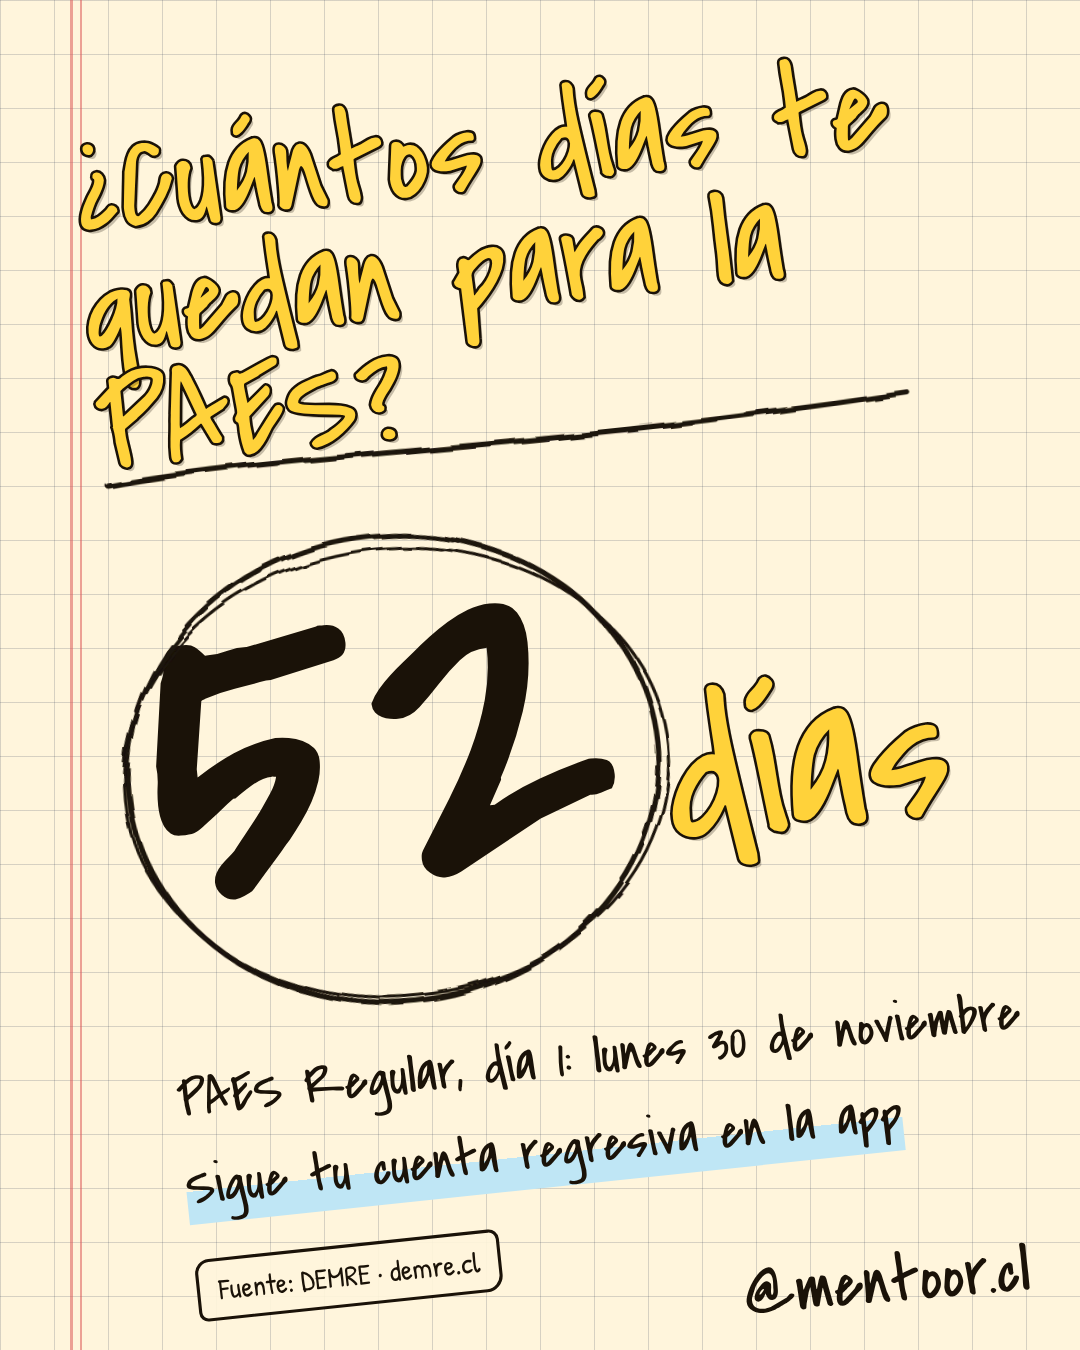
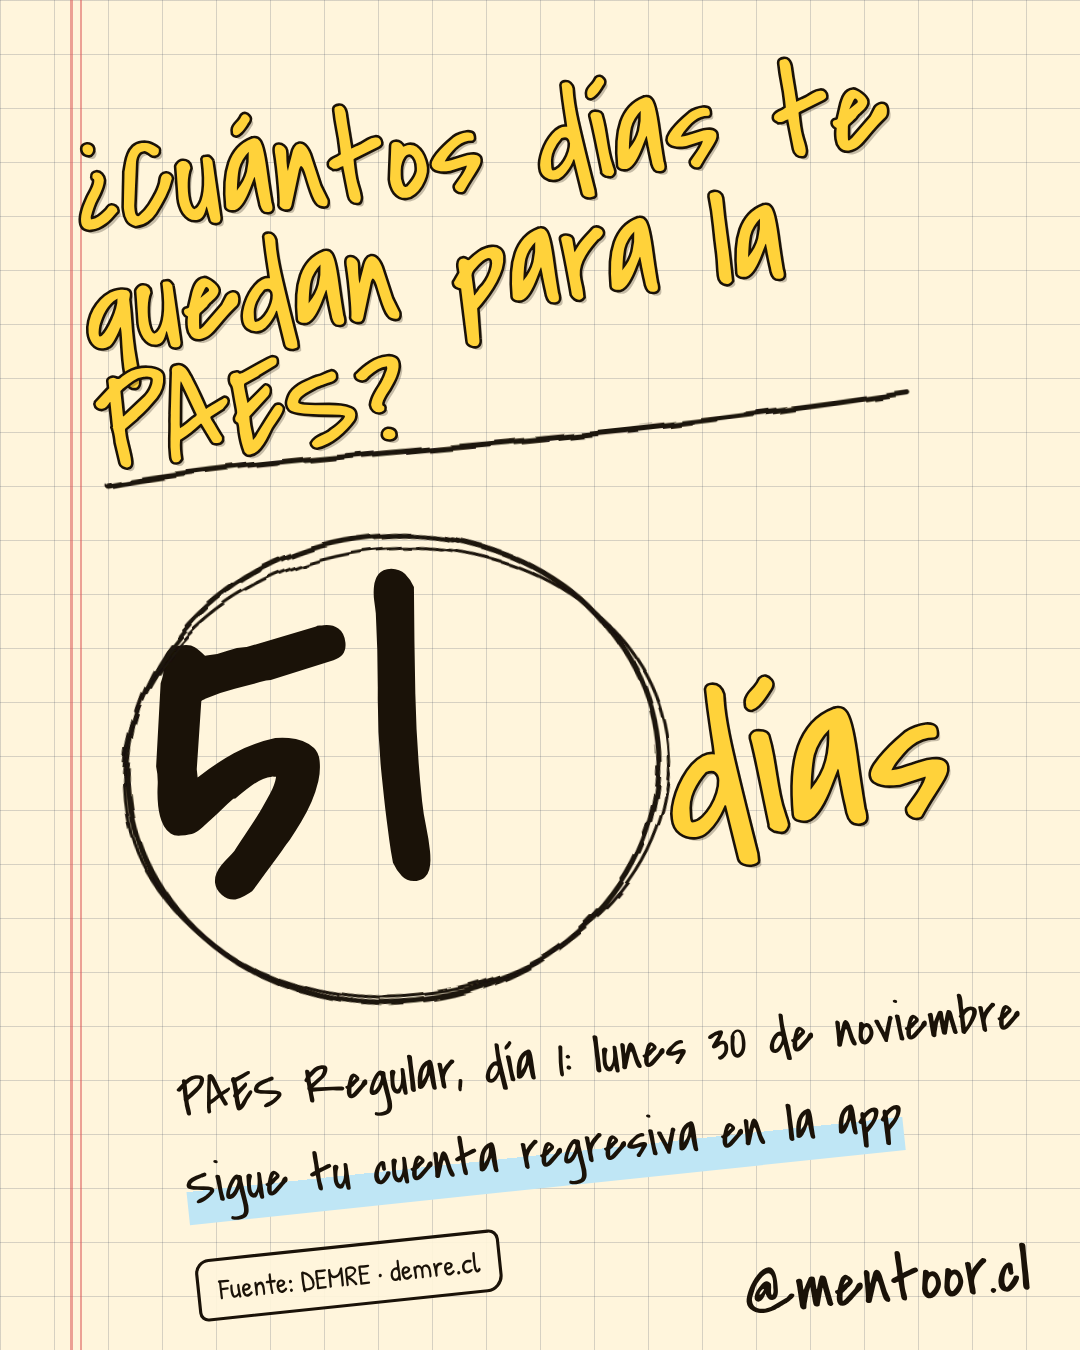
Corrige cuenta regresiva a 51 dias (coincide con la app)
Claude-Session: https://claude.ai/code/session_01DWvZMKLD7izJVkJ76mCF3F

Changed region(s): [[0.3361, 0.4044, 0.5806, 0.6533]]

diff --git a/posts/2026-10-09-cuenta-regresiva-v2/src/post.html b/posts/2026-10-09-cuenta-regresiva-v2/src/post.html
@@ -3,7 +3,7 @@
 <div class="abs" style="left:0;top:0;width:1080px;height:1350px;transform:rotate(-6deg) scale(1.04);transform-origin:center">
 <div class="abs y" style="left:140px;top:110px;width:820px;font-family:'Covered By Your Grace';font-size:128px;line-height:.9">¿Cuántos días te quedan para la PAES?</div>
 <svg class=wob style="left:140px;top:430px" width="800" height="40"><path d="M5 20 C 200 5, 400 30, 780 12"/></svg>
-<div class="abs" style="left:150px;top:470px;font-family:'Covered By Your Grace';font-size:520px;line-height:.9;color:var(--ink)">52</div>
+<div class="abs" style="left:150px;top:470px;font-family:'Covered By Your Grace';font-size:520px;line-height:.9;color:var(--ink)">51</div>
 <svg class=wob style="left:110px;top:500px" width="560" height="500"><ellipse cx="280" cy="250" rx="255" ry="225"/><ellipse cx="283" cy="254" rx="262" ry="216" style="stroke-width:3"/></svg>
 <div class="abs y" style="left:650px;top:700px;font-family:'Covered By Your Grace';font-size:200px;line-height:.9">días</div>
 <div class="abs ink" style="left:150px;top:1020px;font-family:'Covered By Your Grace';font-size:52px;width:900px;white-space:nowrap;line-height:1">PAES Regular, día 1: lunes 30 de noviembre</div>
